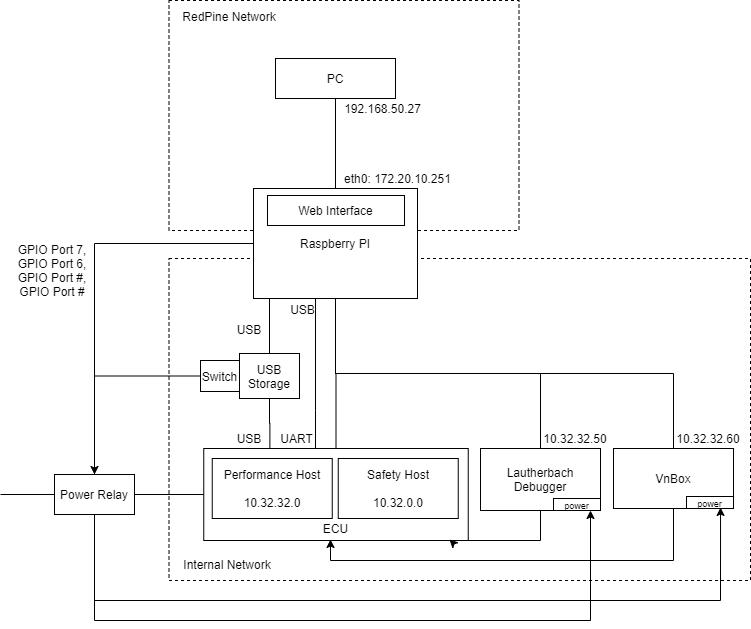
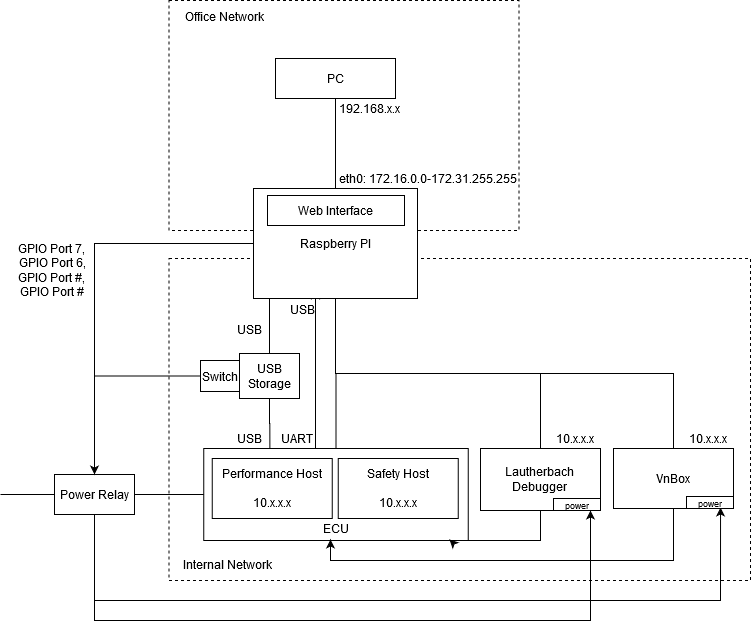
Changed files

diff --git a/server/jest.config.js b/server/jest.config.js
@@ -9,7 +9,7 @@ module.exports = {
   // bail: 0,
 
   // The directory where Jest should store its cached dependency information
-  // cacheDirectory: "C:\\Users\\atakan.celikkol\\AppData\\Local\\Temp\\jest",
+  // cacheDirectory: "",
 
   // Automatically clear mock calls and instances between every test
   clearMocks: true,

diff --git a/README.md b/README.md
@@ -1,6 +1,6 @@
 # REDCON (remote ecu device contoller)
 
-REDCON is a utility that makes it easier to connect and debug ECU boards. This project is designed to run on a raspberry pi device. This device is used for isolating ECU board from the network and controlling it remotely. A typical setup is shown in the diagram given below.
+REDCON is a utility that makes it easier to connect and debug ECU boards. This project is designed to run on all operating systems. Raspberry pi is selected target device. This device is used for isolating ECU board from the network and controlling it remotely. A typical setup is shown in the diagram given below.
 
 ## REDCON Overview 
 ![alt text](docs/diagrams/redcon-overview.png "Overview" )
@@ -10,17 +10,17 @@ Configurable packet forwarding is used for directly accessing ECU boards. This i
 
 | Device Name | IP Address
 |-------------|-----------
-|Raspberry PI | 10.0.3.15
-|ECU1         | 192.168.0.1
-|ECU2         | 192.168.0.2
+|Raspberry PI | 10.x.x.x
+|ECU1         | 192.168.x.x
+|ECU2         | 192.168.x.x
 
 
 | IP       | PORT  | DESTINATION
 |----------|-------|------------------
-| 10.0.3.15| 3000  | 192.168.0.1:8000
-| 10.0.3.15| 3001  | 192.168.0.1:23
-| 10.0.3.15| 4000  | 192.168.0.2:8000
-| 10.0.3.15| 4001  | 192.168.0.2:23
+| 10.x.x.x | 3000  | 192.168.x.x:8000
+| 10.x.x.x | 3001  | 192.168.x.x:23
+| 10.x.x.x | 4000  | 192.168.x.x:8000
+| 10.x.x.x | 4001  | 192.168.x.x:23
 
 ## Power Switch
 Power switch is controlled by Raspberry PI's GPIO ports. This functionality is exposed by a web interface. Users can switch on/off ECU boards.
